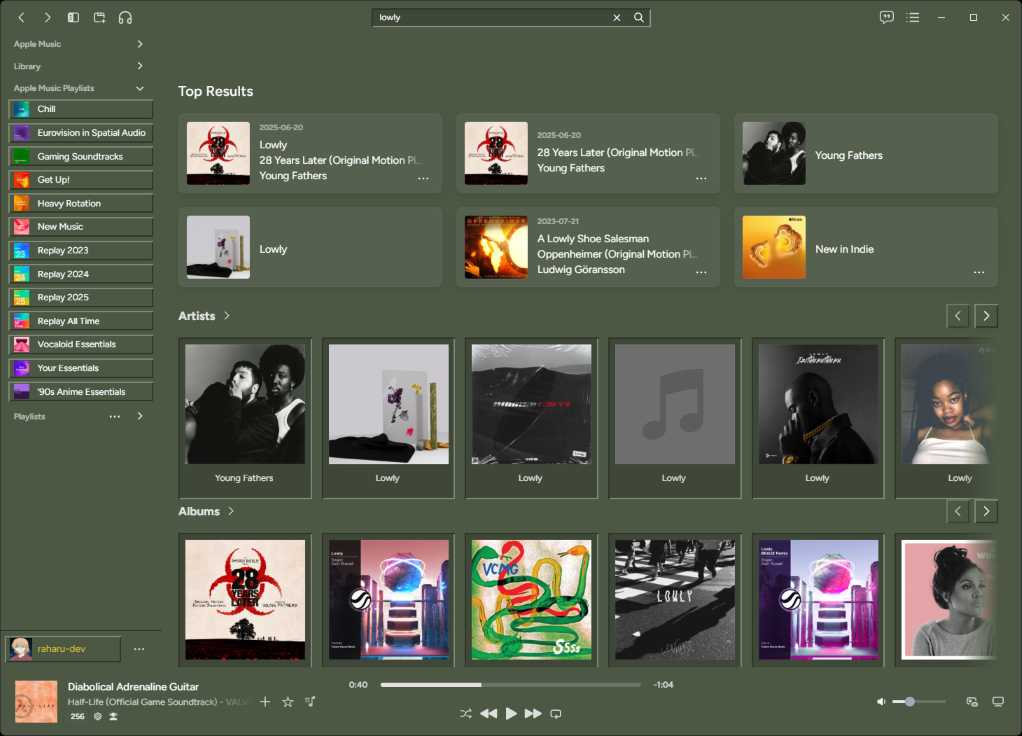
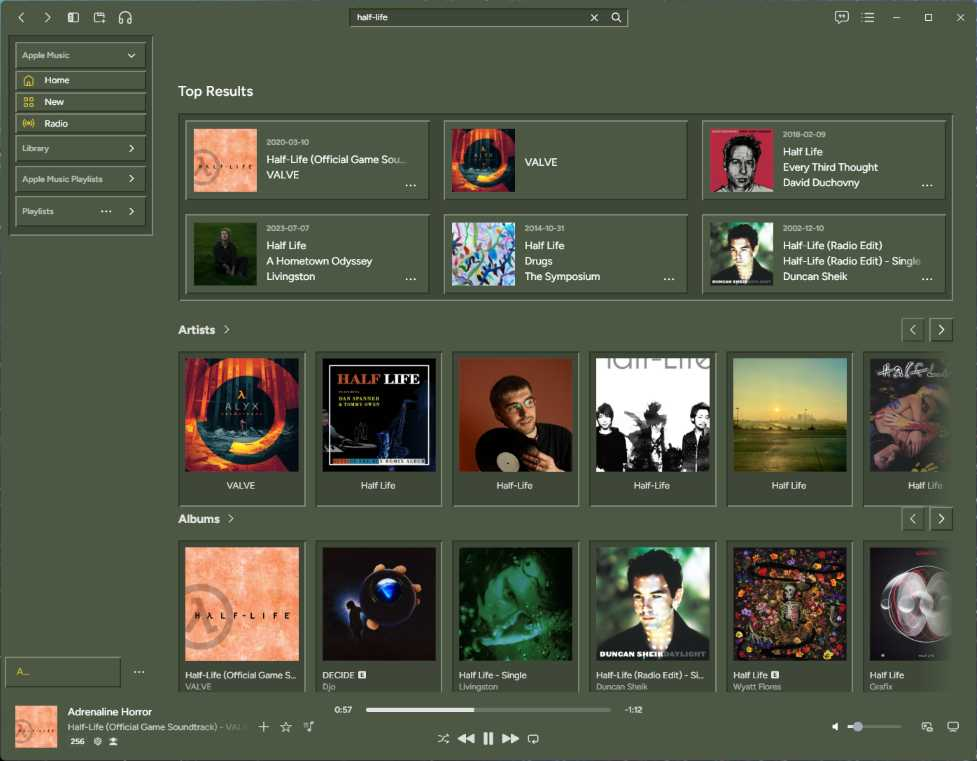
Further improvements.

diff --git a/main.css b/main.css
@@ -1,5 +1,10 @@
 /* goldCDR */
 
+/* For Screenshots */
+/* .profile-artwork {
+    display: none;
+} */
+
 /* ------------------------------------------------------------------------------ */
 /* Variables for easy edit */
 /* ------------------------------------------------------------------------------ */
@@ -31,13 +36,15 @@
  .mediaitem-card, .settings-sidebar-item, .c-select, .search-box_container, .cSearch, .compact-box,
  .category-brick, .category-brick-artwork, .artwork, .sidebar-artwork, .powerswoosh, .shelf-navigation,
  .q-item, .q-list, .profile-tab, .profile-btn, .profile-artwork, .c-listitem-short, .content-title, .mood-item, .mood-artwork,
-  .album-artwork, .q-input.c-select, .q-field__control, .q-select.c-select, .c-input--element, .ri-list-item {
+  .album-artwork, .q-input.c-select, .q-field__control, .q-select.c-select, .c-input--element, .ri-list-item, .library-song-item,
+  .top-conatiner, .mediaitem-topresult, .mediaitem-topresult::after, .artworkContainer, .artworkLockup, .am-expansion-item {
     --glassFilter: none;
     backdrop-filter: none;
     --windowRadius: 0px;
     --genericBorderRadius: 0px;
     box-shadow: none !important;
     border-radius: 0px !important;
+    border: 0px;
     --radius: 0px;
     cursor: default;
 }
@@ -47,7 +54,7 @@
 }
 
 /* ------------------------------------------------------------------------------ */
-/* ACTUAL THEMEING */
+/* General Themeing */
 /* ------------------------------------------------------------------------------ */
 
 /* Accent Color */
@@ -76,9 +83,8 @@ html[no-glass], .q-page {
     -2px -2px 0px var(--shadeDark) inset;
 }
 
-
 /* ------------------------------------------------------------------------------ */
-/* Main Page */
+/* Main Page / View */
 /* ------------------------------------------------------------------------------ */
 .item-set{
     padding:10px;
@@ -90,10 +96,22 @@ html[no-glass], .q-page {
     -2px -2px 0px var(--shadeLight) inset;
 }
 /* Profile Button at the left bottom */
+.sidebar-group{
+    background-color: var(--mainDark);
+    padding:10px;
+    box-shadow: 2px 2px 0px var(--shadeDark) inset,
+    -2px -2px 0px var(--shadeLight) inset;
+}
+.am-expansion-item{
+    background-color: var(--mainLight);
+    padding: 10px;
+    box-shadow: 2px 2px 0px var(--shadeLight) inset,
+    -2px -2px 0px var(--shadeDark) inset;
+}
 .profile-info{
+    padding: 10px;
     color: var(--mainHighlight);
 }
-
 
 /* ------------------------------------------------------------------------------ */
 /* Views */
@@ -115,7 +133,24 @@ html[no-glass], .q-page {
     box-shadow: 2px 2px 0px var(--shadeDark) inset,
     -2px -2px 0px var(--shadeLight) inset;
 }
-
+.album-details{
+    background-color: var(--mainDark);
+    padding: 10px;
+    box-shadow: 2px 2px 0px var(--shadeDark) inset,
+    -2px -2px 0px var(--shadeLight) inset;
+}
+/* Search Results */
+.q-mb-lg{
+    padding: 10px;
+    background-color: var(--mainDark);
+    box-shadow: 2px 2px 0px var(--shadeDark) inset,
+    -2px -2px 0px var(--shadeLight) inset;
+}
+.mediaitem-topresult{
+    background-color: var(--mainLight);
+    box-shadow: 2px 2px 0px var(--shadeLight) inset,
+    -2px -2px 0px var(--shadeDark) inset;
+}
 
 /* ------------------------------------------------------------------------------ */
 /* Library */
@@ -184,6 +219,7 @@ html[no-glass], .q-page {
 #_top-search{
     box-shadow: 3px 3px 0px var(--shadeDark) inset,
     -2px -2px 0px var(--shadeLight) inset;
+    cursor: text;
 }
 .header-search-results{
     padding: 10px;

diff --git a/README.MD b/README.MD
@@ -15,7 +15,6 @@ for example you can do:
 `%appdata%\sh.cider.dotnet\themes\3`
 
 ## Screenshots
-**Those are screenshot of the first version (CURRENT)**
 ![Screenshot 1](./screenshots/1.jpg)
 ![Screenshot 2](./screenshots/2.jpg)
 ![Screenshot 3](./screenshots/3.jpg)
